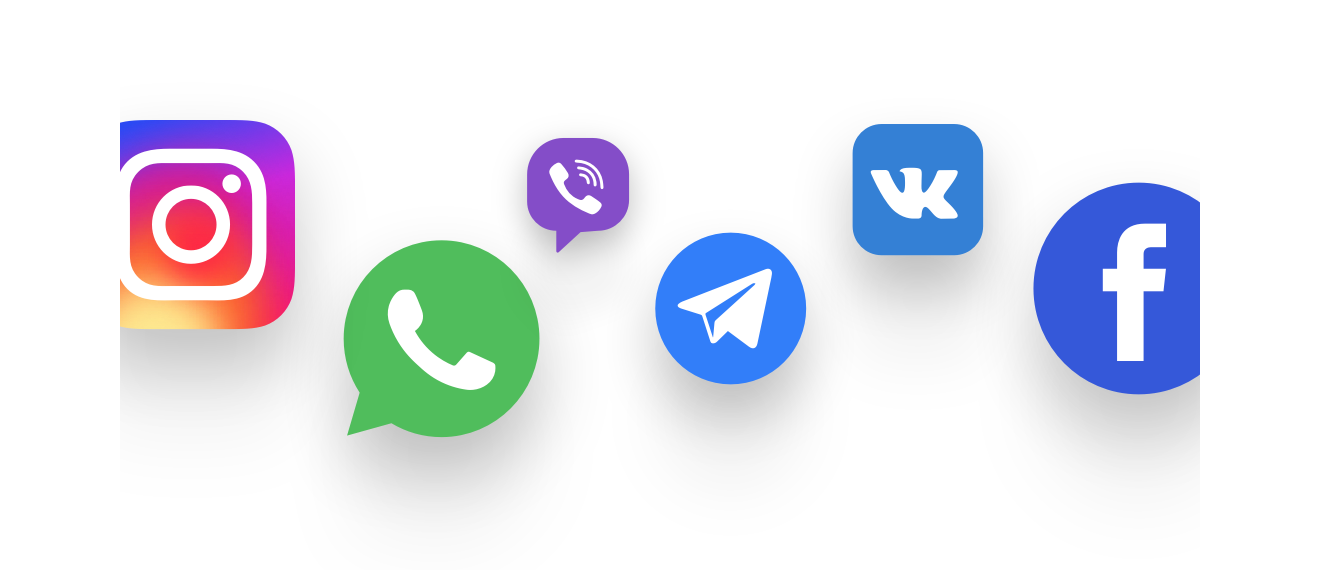
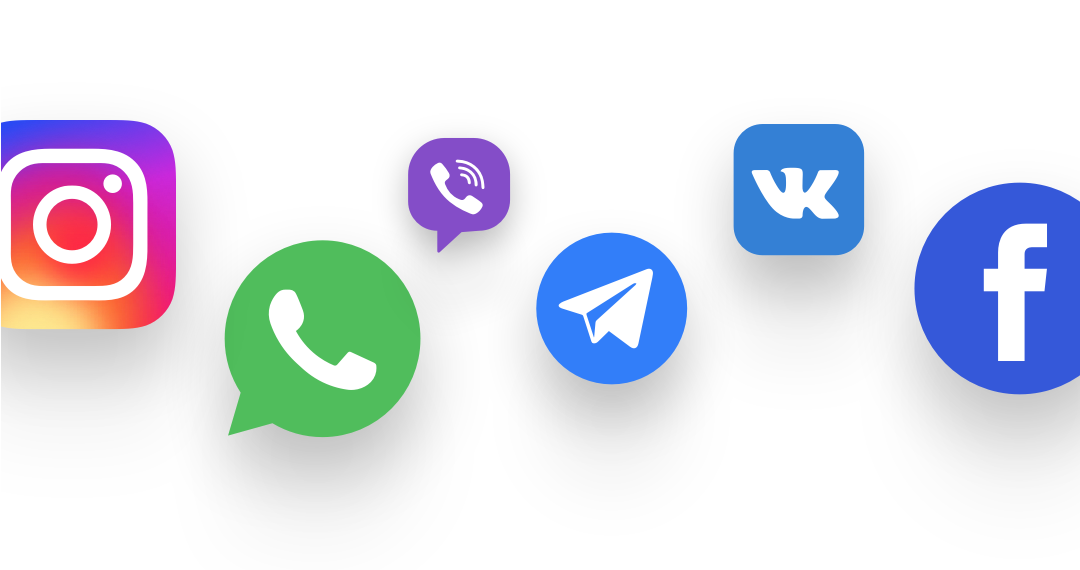
Widget box img added

diff --git a/src/pages/without-site.html b/src/pages/without-site.html
@@ -46,8 +46,8 @@ layout: default
     <h2 class="page-section__title">Ваша страница оплаты</h2>
     <p class="page-section__text">Заменяет сайт. Увеличивает продажи. Рассказывает о&nbsp;вашем бизнесе.</p>
     <div class="widget-box">
-      <div class="widget-box__widget">
-        {{{ img name="widget" breakpoints='{"sm": true}'}}}
+      <div class="widget-box__widget widget-box__widget--no-site">
+        {{{ img name="widget-no-site" breakpoints='{"sm": true}'}}}
       </div>
       {{{ info-box title="Узнаваемая страница"  text='Страница выглядит как минисайт с&nbsp;вашим логотипом, названием и&nbsp;описанием компании. Вызывает доверие клиентов при оплате.' titleMod="lh-35-md" textMod="lh-26-md" mods="align-left-lg, no-mg-b" }}}
       {{{ info-box title="Кнопки быстрой связи"  text='Кнопки WhatsApp, Telegram, Viber&nbsp;&mdash; быстрая связь с&nbsp;клиентами для увеличения продаж. Клиент просто нажимает на&nbsp;кнопку и&nbsp;вам приходит готовое первое сообщение.' titleMod="lh-35-md" textMod="lh-26-md" mods="align-left-lg, no-mg-b" }}}

diff --git a/src/assets/scss/components/_widget-box.scss b/src/assets/scss/components/_widget-box.scss
@@ -56,6 +56,14 @@
     //@include media-breakpoint-up(xl) {
     //  margin-left: 40px;
     //}
+
+    &--no-site {
+      --border-radius-top: 50px;
+      --border-radius-bottom: 36px;
+
+      height: 794px;
+      border-radius: var(--border-radius-top) var(--border-radius-top) var(--border-radius-bottom) var(--border-radius-bottom);
+    }
   }
 
   &__widget img {

diff --git a/src/assets/scss/components/_img.scss b/src/assets/scss/components/_img.scss
@@ -2,6 +2,8 @@
   position: relative;
 
   &--messanger {
+    left: calc(-1 * var(--container-padding-x));
     width: unset;
+
   }
 }
